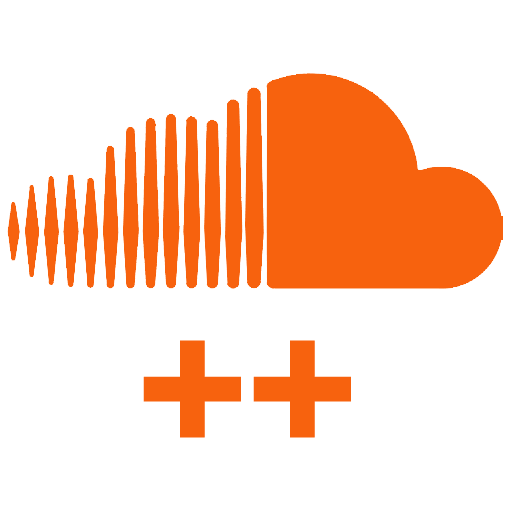
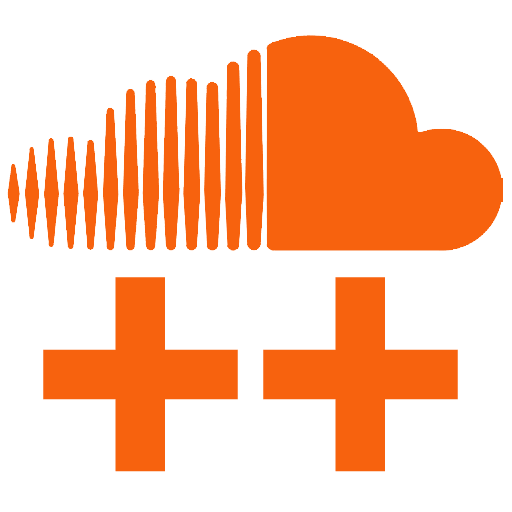
Hide reposts fully functional, placeholders for coming features added.

Changed region(s): [[0.0, 0.0625, 1.0, 0.9375]]

diff --git a/app/scripts/popup.js b/app/scripts/popup.js
@@ -1,27 +1,112 @@
-if(window.location.toString() == "https://soundcloud.com/stream") {
+if(window.location.toString().indexOf("soundcloud.com") > -1) {
 
+
+  var streamPlus = false;
+  var userPlus = false;
+  var searchPlus = false;
   var repostsRemoved = false;
-  setTimeout(function() {
-  console.log("★★★★★★SoundCloud Enhancer loaded!★★★★★★");
-    $("header").append("<div class='moreoptions'>★★&nbsp;<button id='remove-reposts'>Remove Reposts</button></div>");
-    $(".l-content").append("<div class='stream-reposts'></div>");
-    $("#remove-reposts").click(function() {
-      removeReposts($(".stream"))
-    })
-  }, 3000)
+  var logo = chrome.extension.getURL('images/scpluspluswidesmall.png');
+  //Check the URL of SC page to determine appropriate function bar
+  function checkSCPage() {
+    if(window.location.toString().indexOf("/stream") > -1) {
+      addStreamPlus()
+    }
+    else if(window.location.toString().indexOf("/search") > -1) {
+      addSearchPlus()
+    }
+    else if(window.location.toString().indexOf("/explore") > -1) {
+      clearMess()
+    }
+    else if(window.location.toString().indexOf("/upload") > -1) {
+      clearMess()
+    }
+    else if(window.location.toString().indexOf("/you") > -1) {
+      clearMess()
+    }
+    else if(window.location.toString().lastIndexOf("/") == 22) {
+      addUserPlus()
+    }
+  }
+
+  //checks every 3 seconds if the URL has changed
+  setInterval(function() {
+    checkSCPage()
+  }, 3000);
+
+  function clearMess() {
+    if(streamPlus == true || userPlus == true || searchPlus == true) {
+      $(".moreoptions").remove();
+      $(".stream-reposts").remove()
+    }
+  }
+
+  function addStreamPlus() {
+    if(window.streamPlus == false) {
+      clearMess();
+      console.log("★★★★★★SoundCloud Stream★★★★★★");
+      $("header").append("<div class='moreoptions'><img src='" + logo + "' class='sc-plus-plus'>&nbsp;<button id='remove-reposts'>Remove Reposts</button><p>v0.1 - if anything breaks, just refresh!</p></div>");
+      $(".l-content").append("<div class='stream-reposts hidden'></div>");
+      $("#remove-reposts").click(function() {
+        removeReposts($(".stream"))
+      });
+      window.streamPlus = true;
+      window.userPlus = false;
+      window.searchPlus = false;
+      window.repostsRemoved = false
+    }
+  }
+
+  function addUserPlus() {
+    if(userPlus == false) {
+      clearMess();
+      console.log("★★★★★★SoundCloud User★★★★★★");
+      $("header").append("<div class='moreoptions'><img src='" + logo + "' class='sc-plus-plus'>&nbsp;<button id='remove-reposts'>Remove Reposts</button><p>v0.1 - if anything breaks, just refresh!</p></div>");
+      $(".userStream").append("<div class='stream-reposts hidden'></div>");
+      $("#remove-reposts").click(function() {
+        removeReposts($(".userStream__list"))
+      });
+      window.userPlus = true;
+      window.streamPlus = false;
+      window.searchPlus = false;
+      window.repostsRemoved = false
+    }
+  }
+
+  function addSearchPlus() {
+    if(searchPlus == false) {
+      clearMess();
+      console.log("★★★★★★SoundCloud Search★★★★★★");
+      $("header").append("<div class='moreoptions'><img src='" + logo + "' class='sc-plus-plus'>&nbsp;Filter Search Results coming soon, srsly.</div>");
+      window.searchPlus = true;
+      window.streamPlus = false;
+      window.userPlus = false;
+      window.repostsRemoved = false
+    }
+
+  }
   function removeReposts() {
-    var repostsRemoved = true;
-    $(".stream-reposts").append($(".sound__header:contains('Reposted')").parent().parent().parent());
+    window.repostsRemoved = true;
+    if(window.streamPlus == true) {
+      $(".stream-reposts").append($(".sound__header:contains('Reposted')").parent().parent().parent());
+    }
+    else if(window.userPlus == true) {
+      $(".stream-reposts").append($("[aria-label~='reposted']").parent().parent())
+    }
+
+    $("#toggleReposts").remove();
+    $(".moreoptions").append("<button id='toggleReposts'>Show/Hide Reposts</button>");
+    $("#toggleReposts").click(function() {
+      showReposts()
+    })
 
     repostTitles = [];
     var reposts = $(".stream-reposts").find(".soundTitle__title");
 
     for( i = 0; i < reposts.length; i++) {
       repostTitles.push(reposts[i].innerText)
-    };
+    }
 
     var repostTitles = _.uniq(repostTitles);
-    console.log("Now Playing: " + $("a.playbackTitle__link").text());
 
     setInterval(function() {
       if(repostsRemoved == true) {
@@ -35,7 +120,12 @@ if(window.location.toString() == "https://soundcloud.com/stream") {
         }
       }
     }, 800)
-  };
+  }
+
+  function showReposts() {
+    $(".stream-reposts").toggleClass("hidden");
+    $(".stream").toggleClass("stream-hide")
+  }
 
 
 }

diff --git a/app/popup.html b/app/popup.html
@@ -7,11 +7,8 @@
     </head>
     <body>
     <html>
-    <h2>SoundCloud Enhancer</h2>   
-    <div class="hide-reposts">
-        <label>Hide Reposts:</label>
-        <input type="checkbox" id="hide-reposts">
-    </div>
+    <h2>SoundCloud Plus Plus</h2>   
+    <p>Honestly, you can probably just hide this button because it doesn't do anything yet.</p>
 
     <div class="apply-options">
         <button id="apply-options">Apply Changes</button>

diff --git a/app/styles/main.css b/app/styles/main.css
@@ -1,8 +1,26 @@
 .moreoptions {
 	background: #343434;
 	padding: 5px;
+	margin-bottom: 20px;
 }
 
-.stream-reposts {
+.moreoptions p {
+	float: right;
+}
+
+.sc-plus-plus {
+	max-height: 15px;
+	display: inline;
+}
+
+.l-three-column, .l-fluid-fixed {
+	margin-top: 20px;
+}
+
+.reposts-show {
+	display: visible;
+}
+
+.stream-hide, .stream-reposts .hidden {
 	display: none;
 }
